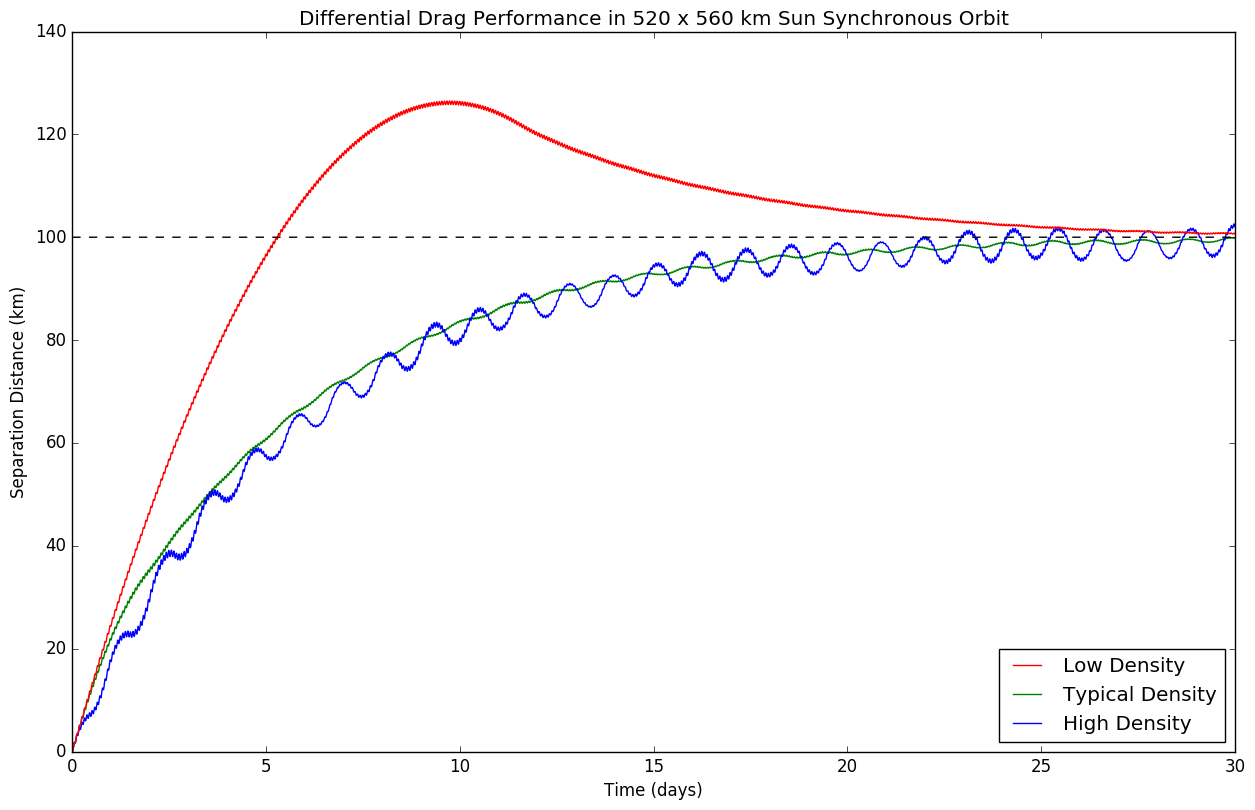
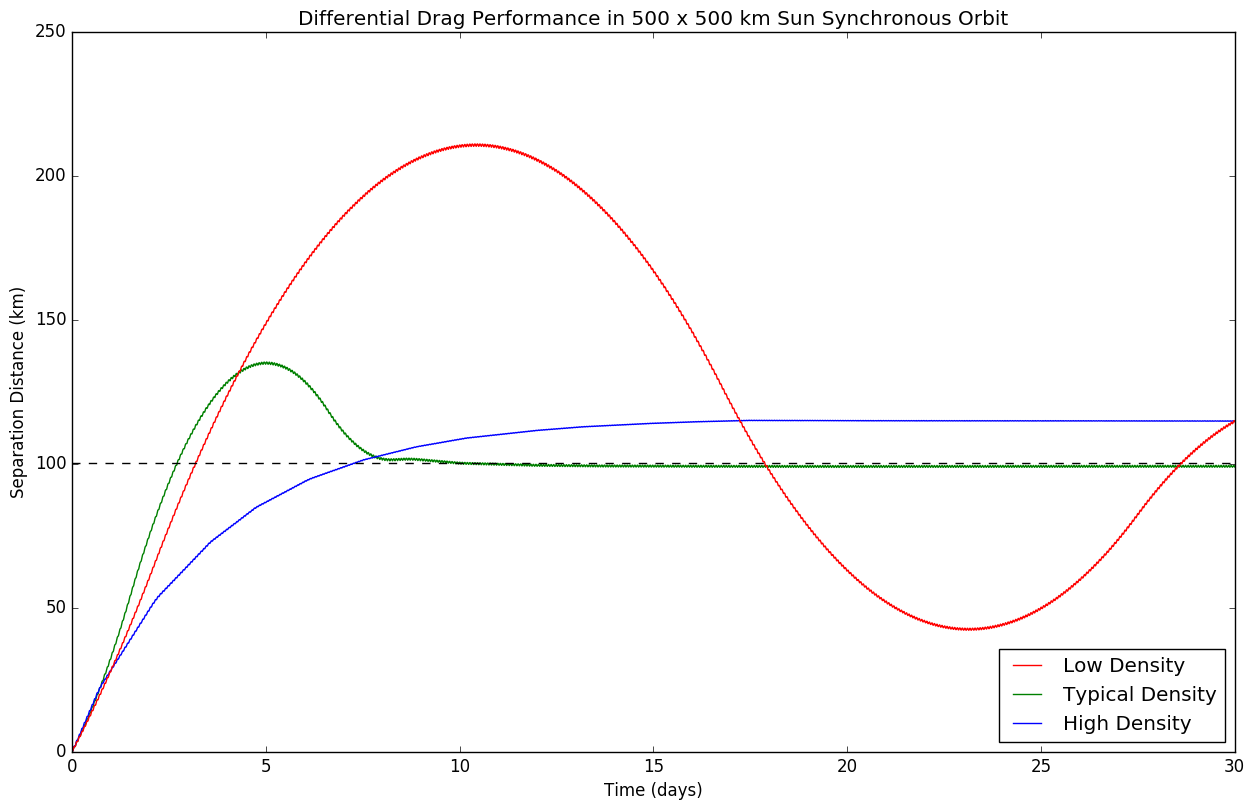
Made it easier to figure out what the controller is doing

diff --git a/diff_drag.py b/diff_drag.py
@@ -18,7 +18,7 @@ import atexit
 r_earth = 6371009 # [m]
 
 # Initial altitude
-altitude_0 = 520 * 1000 # [m]
+altitude_0 = 500 * 1000 # [m]
 
 # TODO: Currently assumes orbit starts at periapsis
 # Periapsis
@@ -26,7 +26,7 @@ r_peri = altitude_0 + r_earth
 
 # TODO: Currently assumes orbit starts at periapsis
 # Orbital elements
-orbital_e = 0.001                                                 # Eccentricity [unitless]
+orbital_e = 0.000                                                 # Eccentricity [unitless]
 orbital_i = 98.0                                                    # Inclination [deg]
 orbital_a = r_peri * (1 + ((1 + orbital_e)/(1 - orbital_e)))/2.0    # Semi-major axis [m]
 #orbital_Omega                                                      # unimplemented
@@ -146,8 +146,9 @@ def run_simulation(# Time step, in seconds.
                    differential_drag = 1,
 
                    # Constants of differential drag PI controller
-                   k_i_drag = -0.02,
+                   k_i_drag = -0.11,
                    k_p_drag = -10000.0,
+                   threshold_drag = 200.0,
 
                    # TODO - implement propulsion
                    # Enable propulsion
@@ -155,7 +156,9 @@ def run_simulation(# Time step, in seconds.
 
                    # Constants of propulsion PI controller
                    k_i_prop = 0.0,
-                   k_p_prop = 0.0
+                   k_p_prop = 0.0,
+                   threshold_prop = 0.0
+
 
                    ):
     #initial = time.time()
@@ -173,8 +176,8 @@ def run_simulation(# Time step, in seconds.
     inp.extend(second_state)
     inp.extend([first_orientation, second_orientation])
     inp.extend([f107A, f107 , ap])
-    inp.extend([differential_drag, k_i_drag , k_p_drag])
-    inp.extend([propulsion, k_i_prop , k_p_prop])
+    inp.extend([differential_drag, k_i_drag , k_p_drag, threshold_drag])
+    inp.extend([propulsion, k_i_prop , k_p_prop, threshold_prop])
     #print '\n'.join(map(str, inp))
     a,b=process.communicate(input='\n'.join(map(str, inp)))
     print a,b
@@ -215,7 +218,7 @@ avg_dens, = plt.plot(ts, np.sqrt((xs-xs2)**2 + (ys-ys2)**2 + (zs-zs2)**2)/1000.0
 
 # High solar flux, high magnetic activity
 
-out2 = run_simulation(f107A = 300.0, f107 = 300.0, ap = 40.0)
+out2 = run_simulation(f107A = 300.0, f107 = 300.0, ap = 40.0, k_i_drag = -0.15, k_p_drag = -40000.0, threshold_drag = 2500.0,)
 
 ts12 = out2[:, 0]/86400.0
 xs12 = out2[:, 1]
@@ -267,7 +270,7 @@ plt.plot(ts, np.ones(len(ts)) * target_distance/1000 , 'k--')
 plt.ylabel('Separation Distance (km)')
 plt.xlabel('Time (days)')
 plt.legend(handles=[low_dens, avg_dens, high_dens], loc = 'lower right')
-plt.title('Differential Drag Performance in 520 x 560 km Sun Synchronous Orbit')
+plt.title('Differential Drag Performance in 500 x 500 km Sun Synchronous Orbit')
 plt.savefig('pi_controller_space_weather.png', bbox_inches='tight')
 plt.show()
 

diff --git a/jmdt.cpp b/jmdt.cpp
@@ -238,8 +238,10 @@ int main () {
 	double f107A, f107, ap;
 	int differential_drag;
 	double k_i_drag, k_p_drag;
+	double threshold_drag;
 	int propulsion;
 	double k_i_prop, k_p_prop;
+	double threshold_prop;
 
 	cin >> dt >> report_steps >> atmosphere >> earth >>
 		x >> y >> z >> vx >> vy >> vz >> t0 >> tf >> output_size >>
@@ -247,8 +249,8 @@ int main () {
 		solar_efficiency >> two_satellites >> separation_target >>
 		x2 >> y2 >> z2 >> vx2 >> vy2 >> vz2 >> first_orientation >>
 		second_orientation >> f107A >> f107 >> ap >>
-		differential_drag >> k_i_drag >> k_p_drag >>
-		propulsion >> k_i_prop >> k_p_prop;
+		differential_drag >> k_i_drag >> k_p_drag >> threshold_drag >>
+		propulsion >> k_i_prop >> k_p_prop >> threshold_prop;
 
 	StateVector x0;
 	x0 << x, y, z, vx, vy, vz;
@@ -299,7 +301,7 @@ int main () {
 	params.two_satellites = two_satellites;
 	params.i_am_leader = true;
 	params.separation_target = separation_target;
-	params.distance_derivative = 0.0;
+	params.controller_behavior = 0;
 	params.lover = NULL;
 	params.filter = 0.0;
 
@@ -379,16 +381,22 @@ int main () {
 
 				double controller_response = (k_i_drag * err_i) + (k_p_drag * err_p);
 
-				if(controller_response < 0){
+				if(controller_response < -threshold_drag){
 					params.orientation_str = 'r';
 					second_params.orientation_str = 'n';
-				}else{
+					params.controller_behavior = 1;
+					second_params.controller_behavior = 0;
+				}else if(controller_response > threshold_drag){
 					params.orientation_str = 'n';
 					second_params.orientation_str = 'r';
+					params.controller_behavior = 0;
+					second_params.controller_behavior = 1;
+				}else{
+					params.orientation_str = 'n';
+					second_params.orientation_str = 'n';
+					params.controller_behavior = 0;
+					second_params.controller_behavior = 0;
 				}
-
-				params.distance_derivative = dist_deriv;
-				second_params.distance_derivative = dist_deriv_filtered;
 			}
 		}
 		// End janktroller
@@ -416,8 +424,8 @@ int main () {
 				output[arg0+15] = second_params.output_power;
 				output[arg0+16] = second_params.output_BC;
 			}
-			output[arg0+17] = params.distance_derivative;
-			output[arg0+18] = second_params.distance_derivative;
+			output[arg0+17] = params.controller_behavior;
+			output[arg0+18] = second_params.controller_behavior;
 			output[arg0+19] = params.filter;
 			output[arg0+20] = second_params.filter;
 		}

diff --git a/util.h b/util.h
@@ -36,7 +36,7 @@ struct IntegratorParams {
 
 	int i_am_leader; // Unused
 	int separation_target;
-	double distance_derivative; // No longer used for what it was created for
+	int controller_behavior;
 
 	double f107A;
 	double f107;
